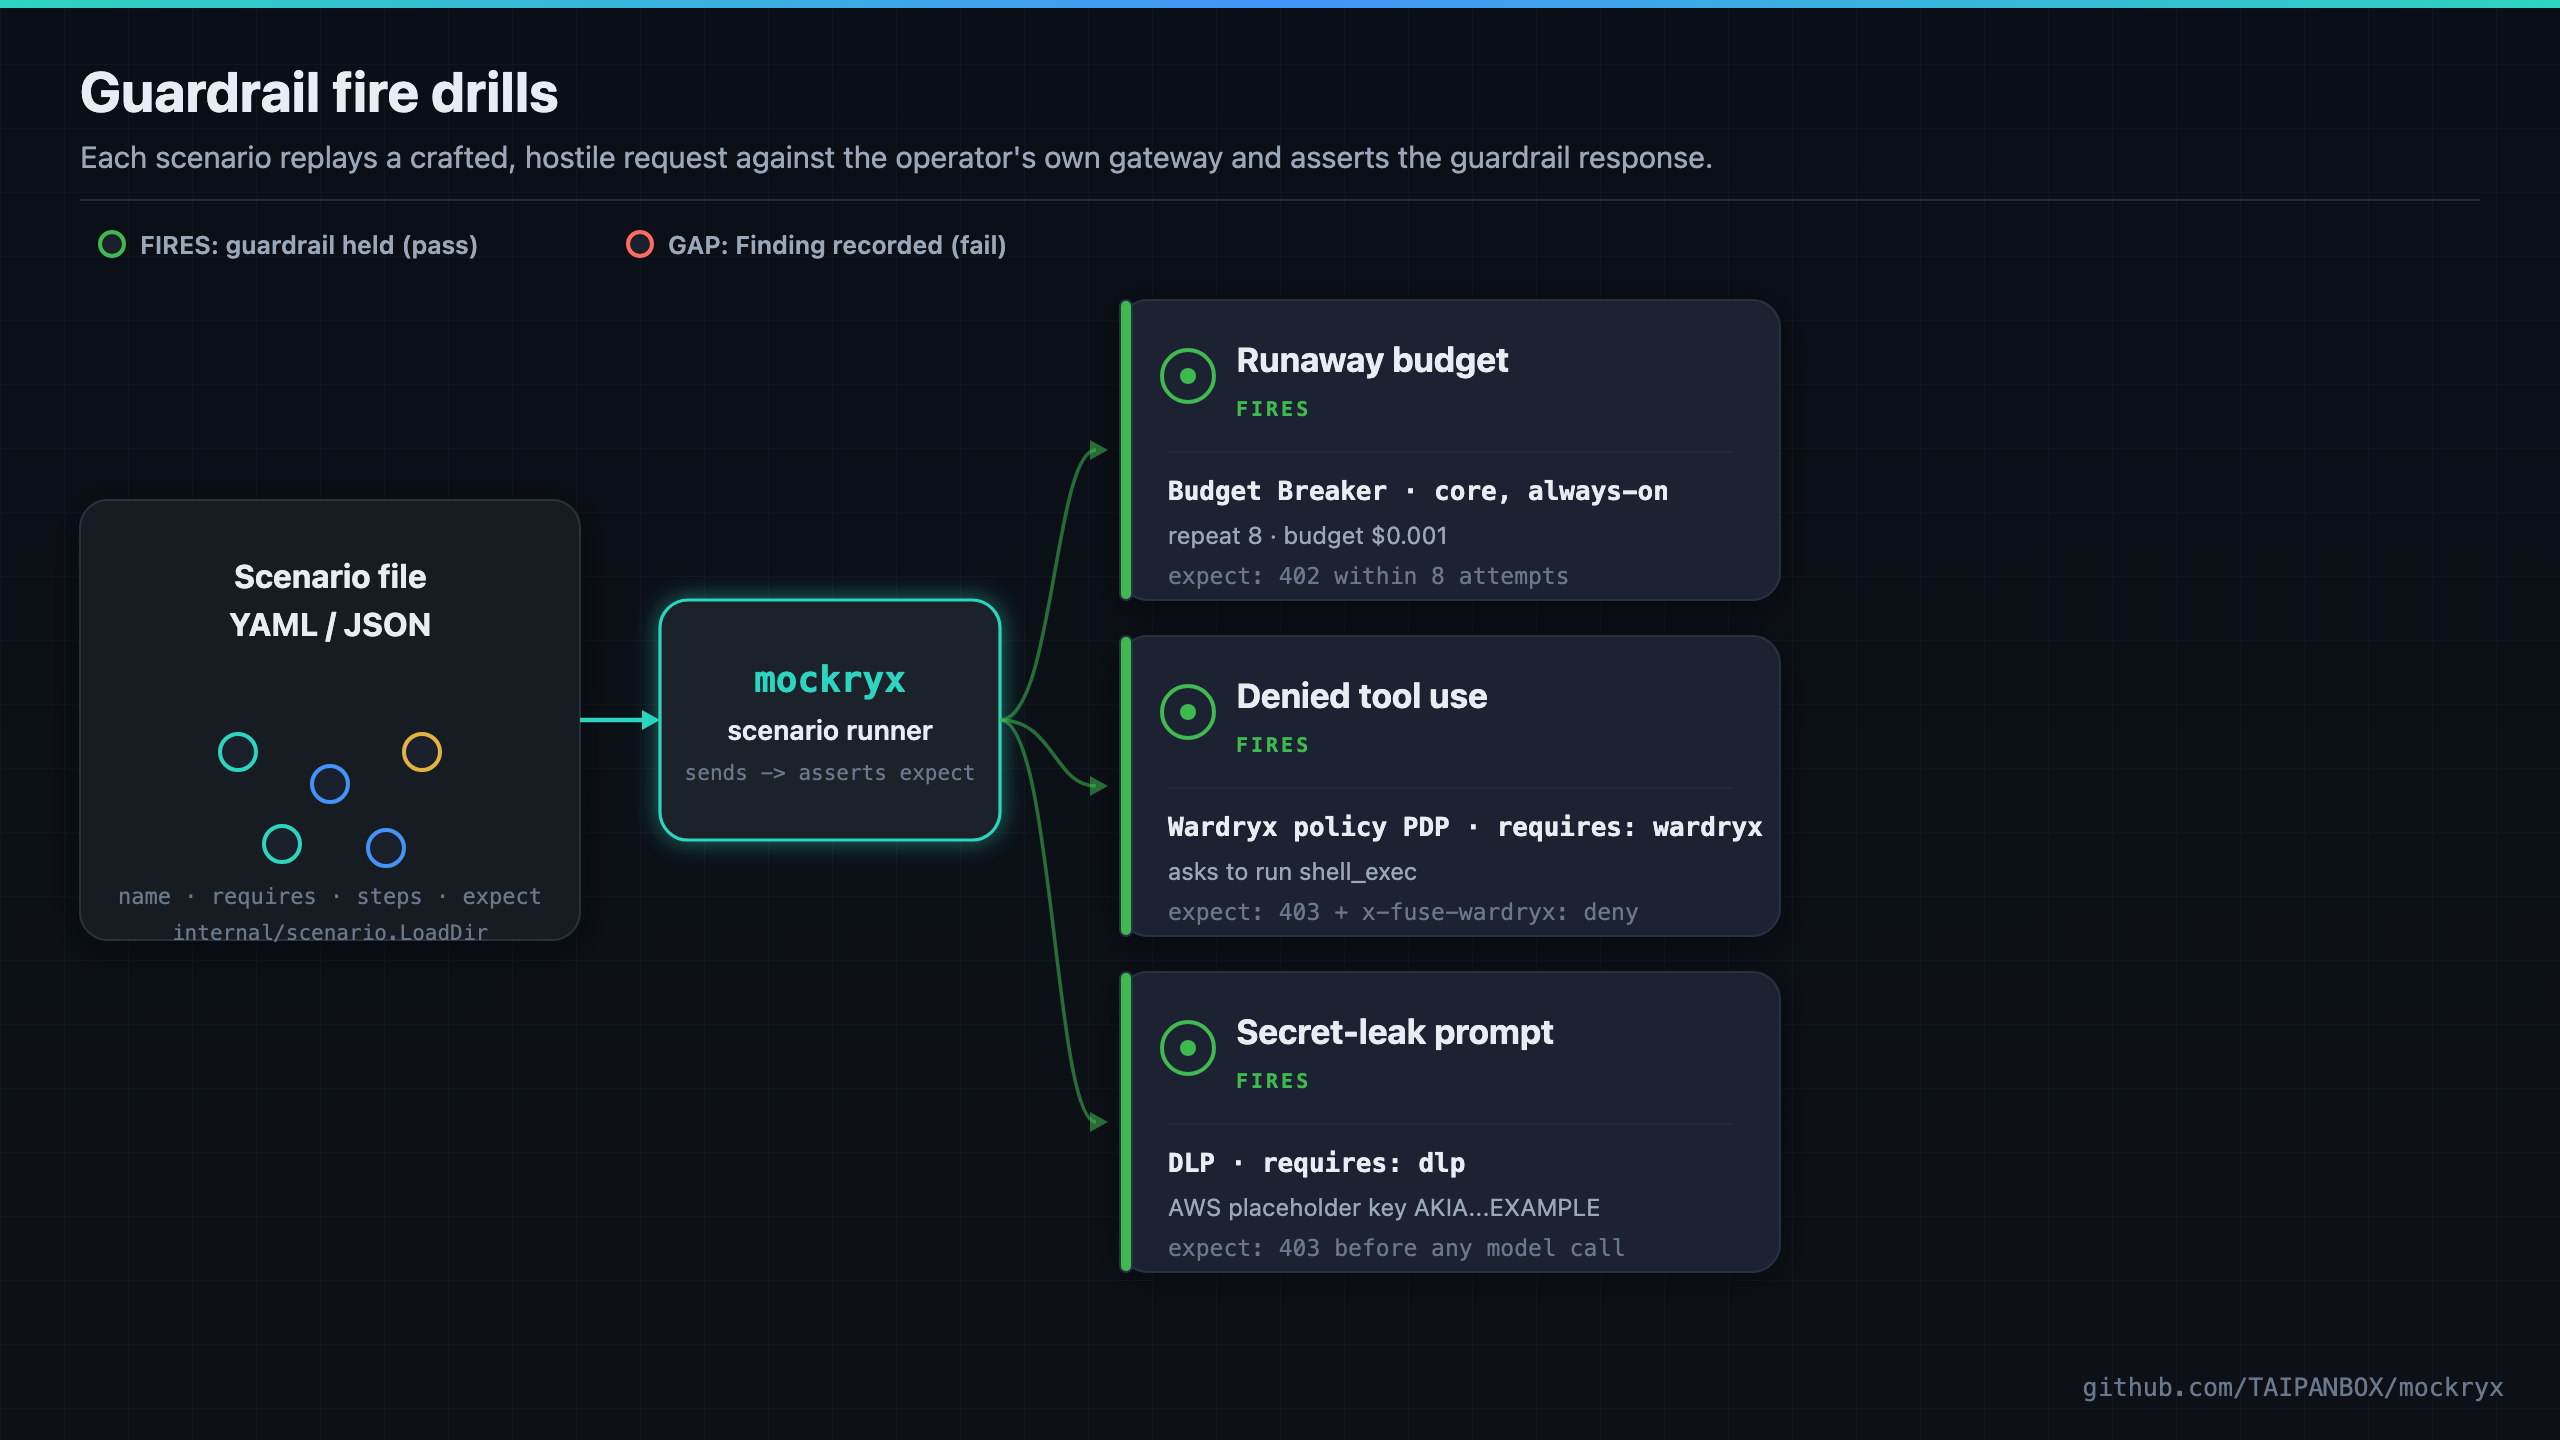
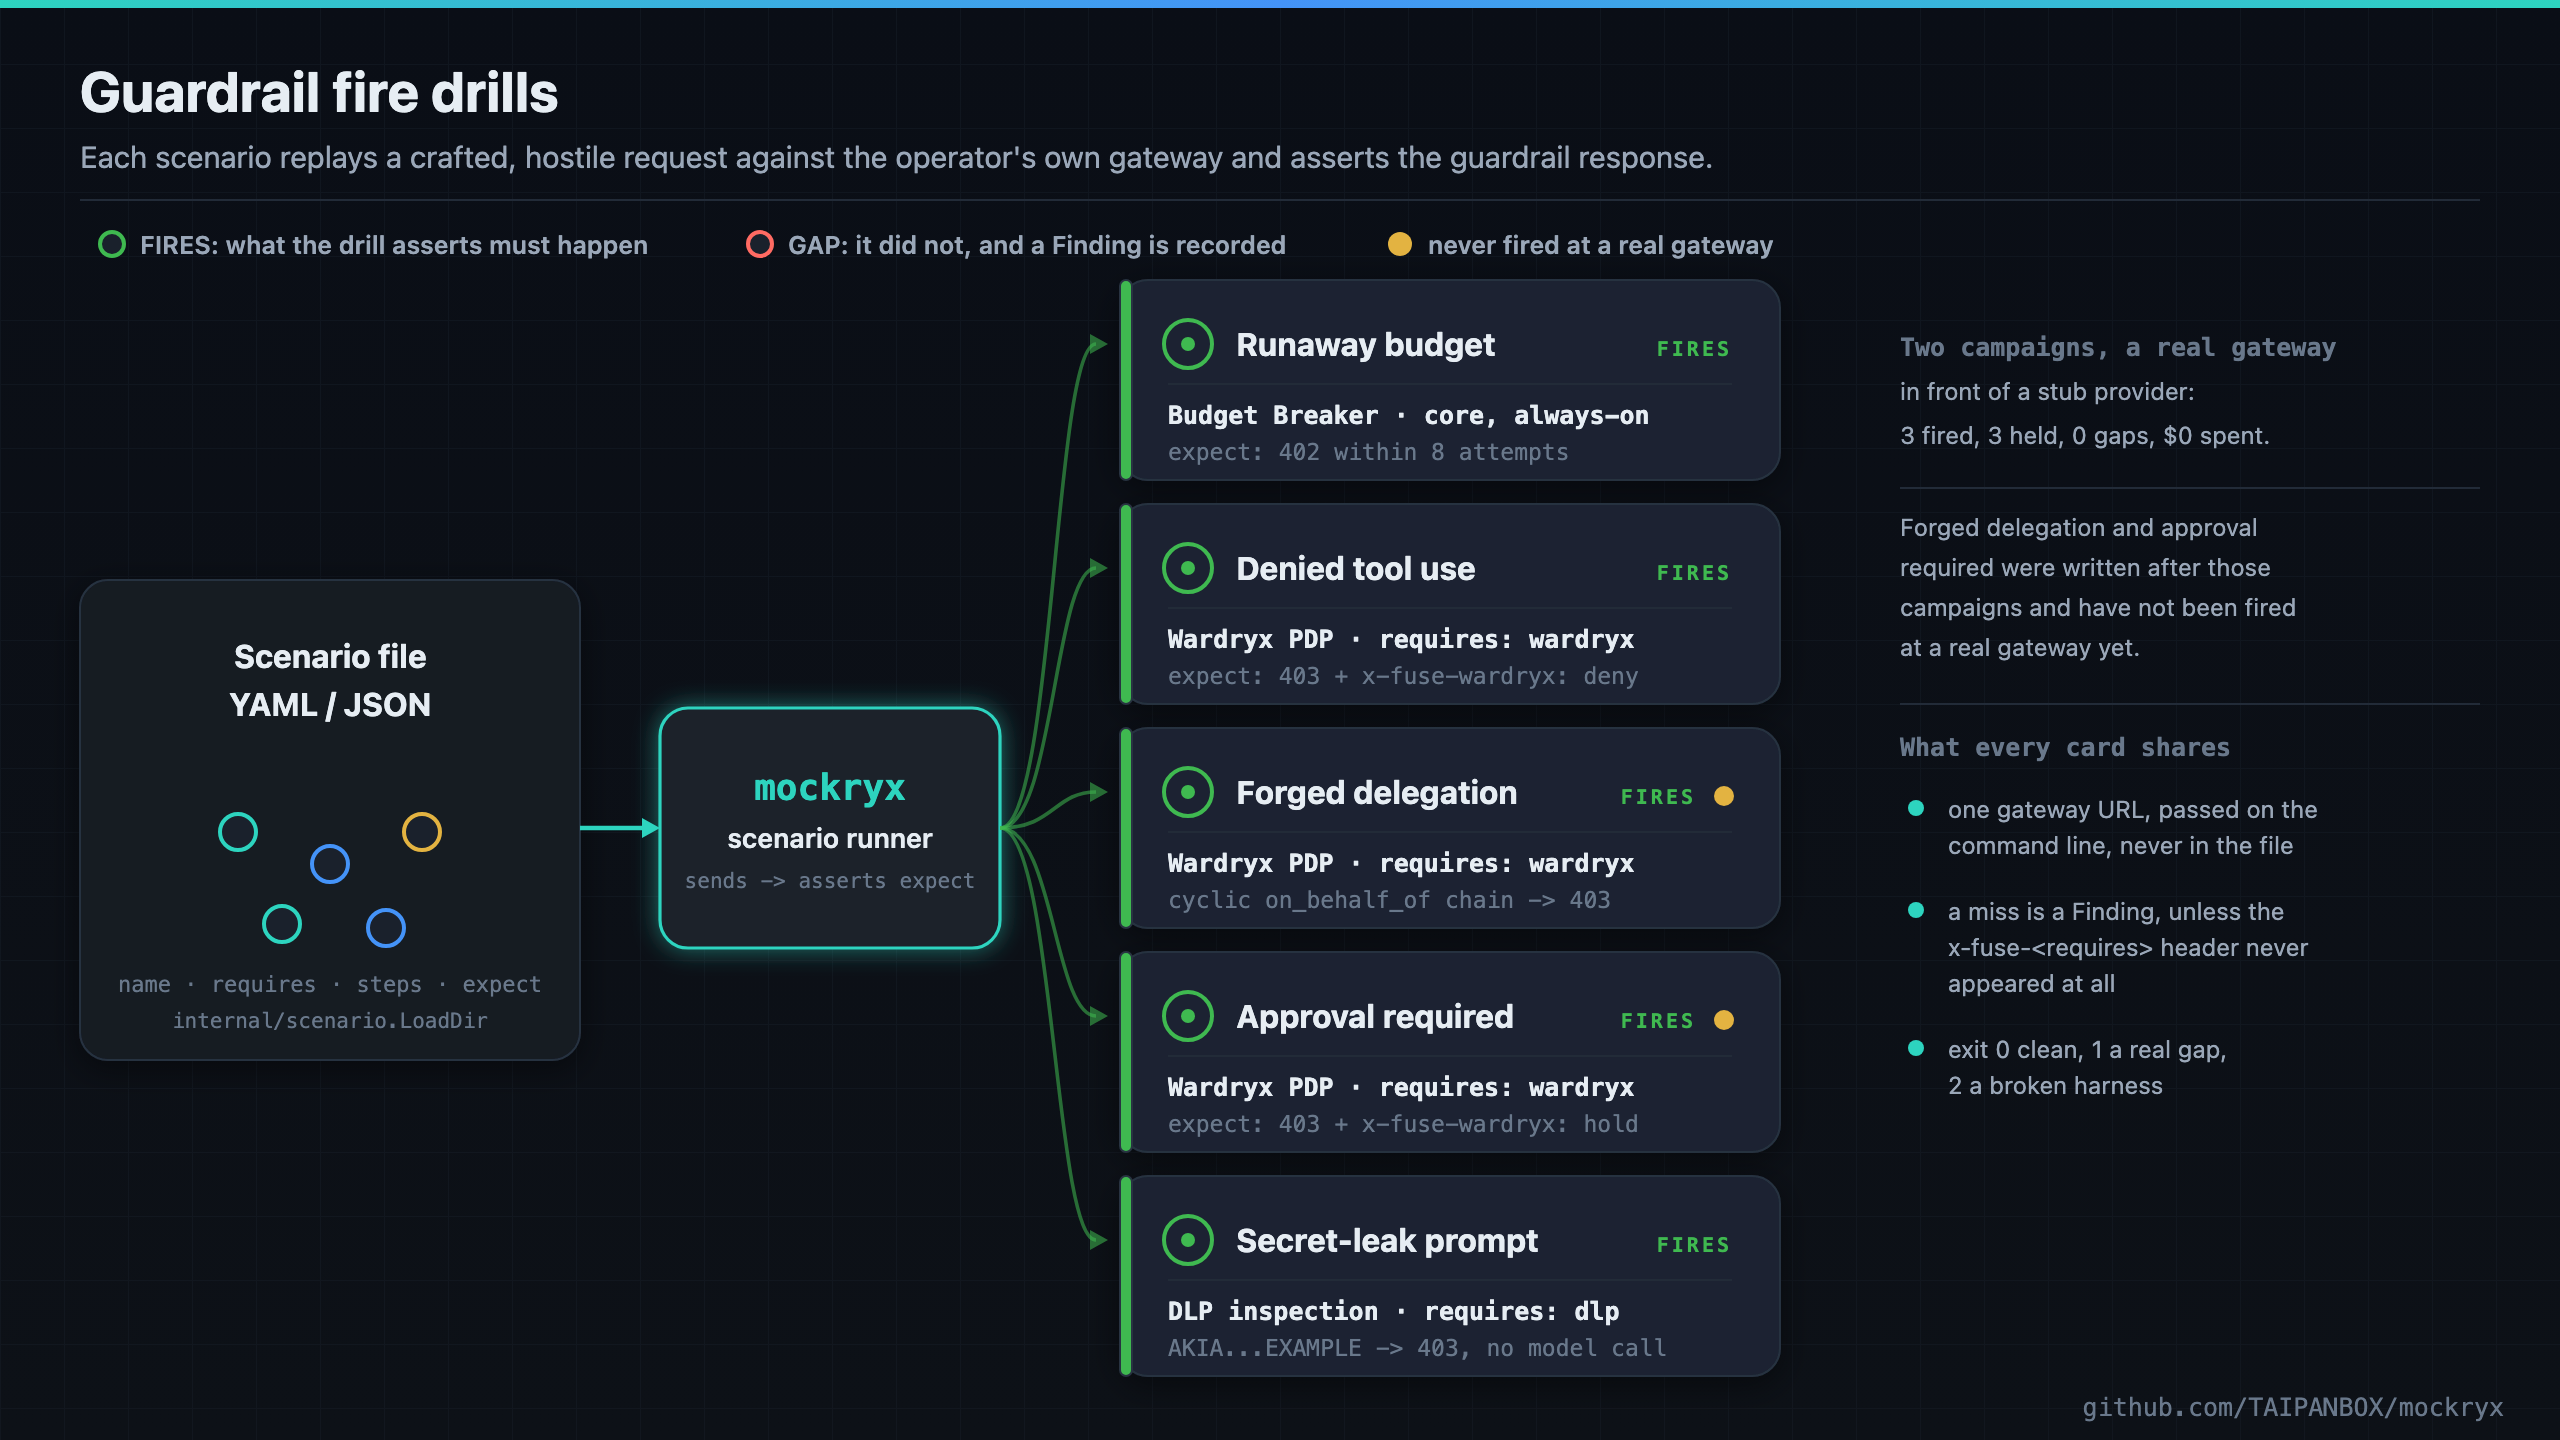
docs: a three-scenario measurement was reading as covering five (#14)
The README said "the three hostile scenarios in this file, fired twice at a
real gateway with zero gaps and zero real spend". Five ship in scenarios/.
`on-behalf-of-forged-chain` and `approval-required` were written after those
campaigns and have never been fired at a real gateway at all.

Nothing lied outright. The number was right about its moment, the file grew
past it, and "in this file" turned a true measurement into a claim covering
two drills nobody has ever run in anger. That is the shape these decay in,
and it is worth more than the count: a reader deciding whether to trust the
approval-required drill was reading evidence for a different one.

Both places now name the three that were fired and say plainly what holds
the other two: scripts/selftest.sh proves a scenario can SEE its guardrail
missing, which is not the same claim as the guardrail holding. VALIDATION.md
keeps its numbers unchanged and gains a scope section, since a record should
stay true about its moment rather than be edited to match today.

docs/scenarios.svg drew three cards above a five-row table. It now draws
five, with an amber marker and a legend entry for the two never fired at a
real gateway, so the picture carries the same caveat as the prose.

diff --git a/README.md b/README.md
@@ -101,7 +101,11 @@ Run the whole open stack locally with one command via [**stack-up**](https://git
 
 Before any public launch, Mockryx ran its fire-drills in their intended mode - a real gateway in front of
 a stub provider - on two separate campaigns: 3 scenarios, 3 held, 0 defensive gaps, $0 real spend, both
-times.
+times. Those three were `runaway-budget`, `wardryx-denied-tool` and `dlp-secret-leak`. Five ship today:
+`on-behalf-of-forged-chain` and `approval-required` were written after those campaigns and have never been
+fired at a real gateway. What holds them is `scripts/selftest.sh`, which proves a scenario can SEE its
+guardrail missing, not that the guardrail holds. Those are different claims and only the first one covers
+all five.
 
 ![Mockryx pre-prod rehearsal: 3 drills run against a real gateway, 3 held, 0 defensive gaps, $0 real spend](assets/13-mockryx.png)
 
@@ -123,8 +127,8 @@ that silently bills you every night is a bad default, and defaults are the
 part people never read.
 
 To be clear about scope: those runs verified the deployment shape and the
-service coming up correctly on three clouds. They did not fire drills as part of the runs. The three hostile
-scenarios in this file, fired twice at a real gateway with zero gaps and zero
+service coming up correctly on three clouds. They did not fire drills as part of the runs. The three
+scenarios named above, fired twice at a real gateway with zero gaps and zero
 real spend, remain the evidence for the harness itself.
 
 ---
@@ -132,7 +136,7 @@ real spend, remain the evidence for the harness itself.
 ## Guardrail fire drills
 
 <div align="center">
-<img src="docs/scenarios.png" alt="Three guardrail fire drills: runaway budget against the Breaker, denied tool use against Wardryx, and a secret-leak prompt against DLP, each expected to FIRE (pass), with a GAP meaning a Finding was recorded" width="900">
+<img src="docs/scenarios.png" alt="Five guardrail fire drills: runaway budget against the Breaker, denied tool use, a forged delegation chain and a missing approval against Wardryx, and a secret-leak prompt against DLP. Each card names what the drill asserts must happen, a GAP means a Finding was recorded, and an amber dot marks the two scenarios that have never been fired at a real gateway" width="900">
 </div>
 
 Mockryx works in four steps:

diff --git a/VALIDATION.md b/VALIDATION.md
@@ -27,6 +27,14 @@ gateway itself.
 - This is the harness working as designed - a regression in any of these three guardrails would fail CI
   before it ever reached production.
 
+## What this does not cover
+
+This page is a record of two campaigns, and it stays true about the moment it describes rather than
+about the repository today. Five scenarios ship now: `on-behalf-of-forged-chain` and
+`approval-required` were written after these runs and have never been fired at a real gateway. What
+holds those two is `scripts/selftest.sh`, which proves a scenario can SEE its guardrail missing, not
+that the guardrail holds. Anyone citing "0 gaps" should cite it for the three named above.
+
 ## Method
 
 Disposable Hetzner VPS boxes (deleted after each run), Mockryx driving a real gateway configured with a
